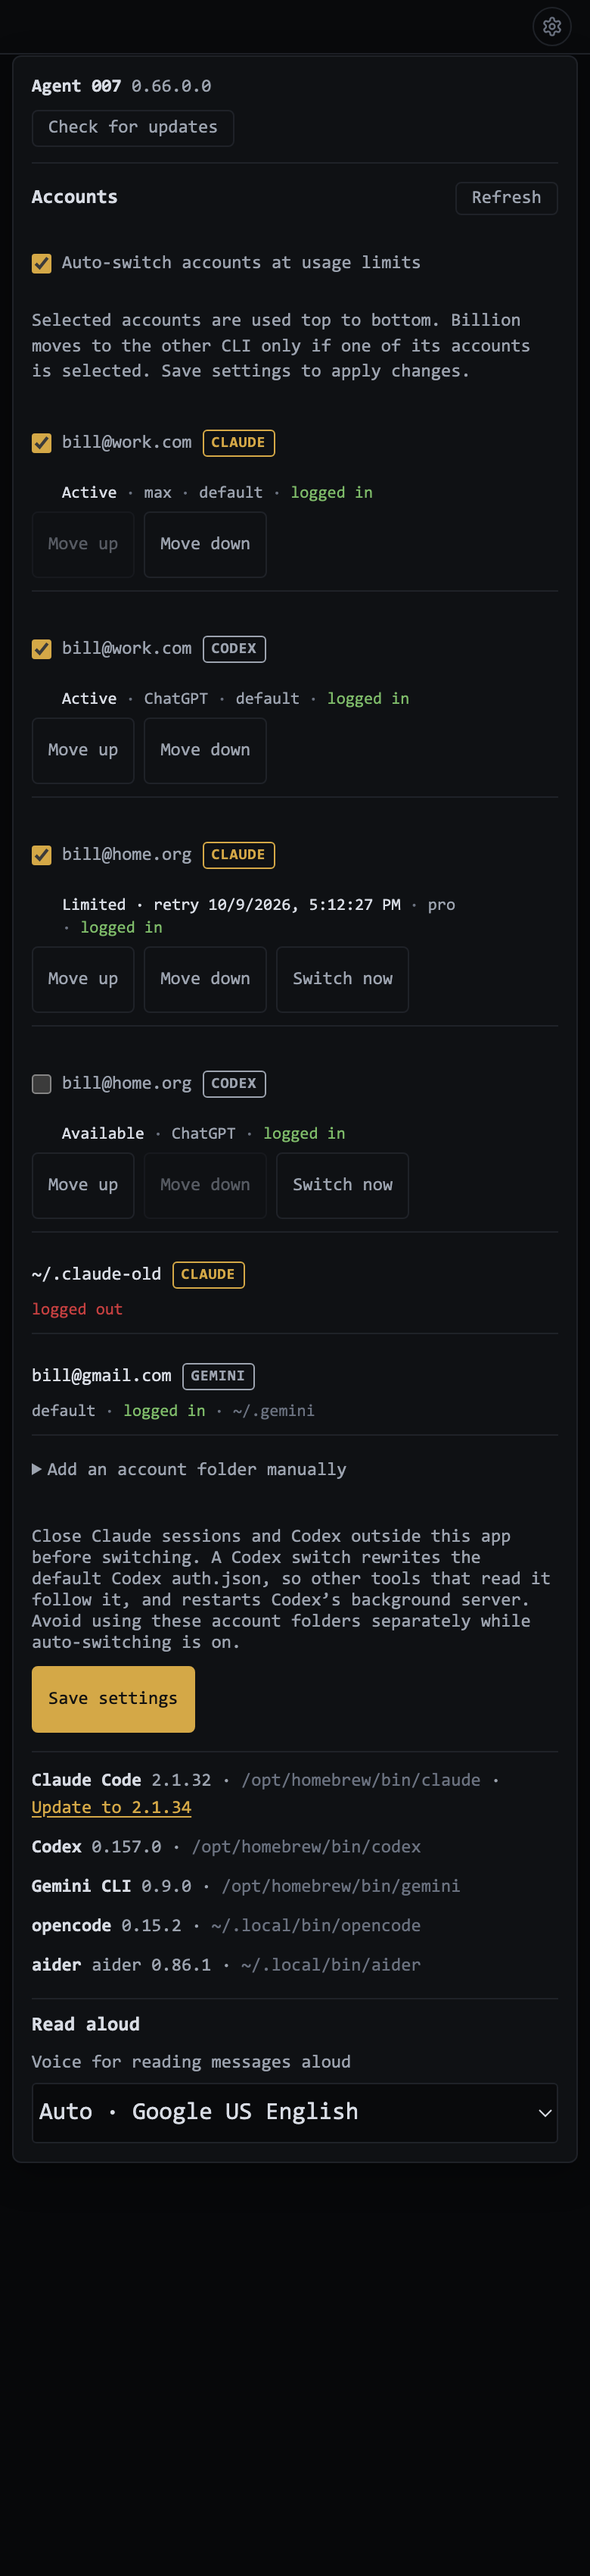
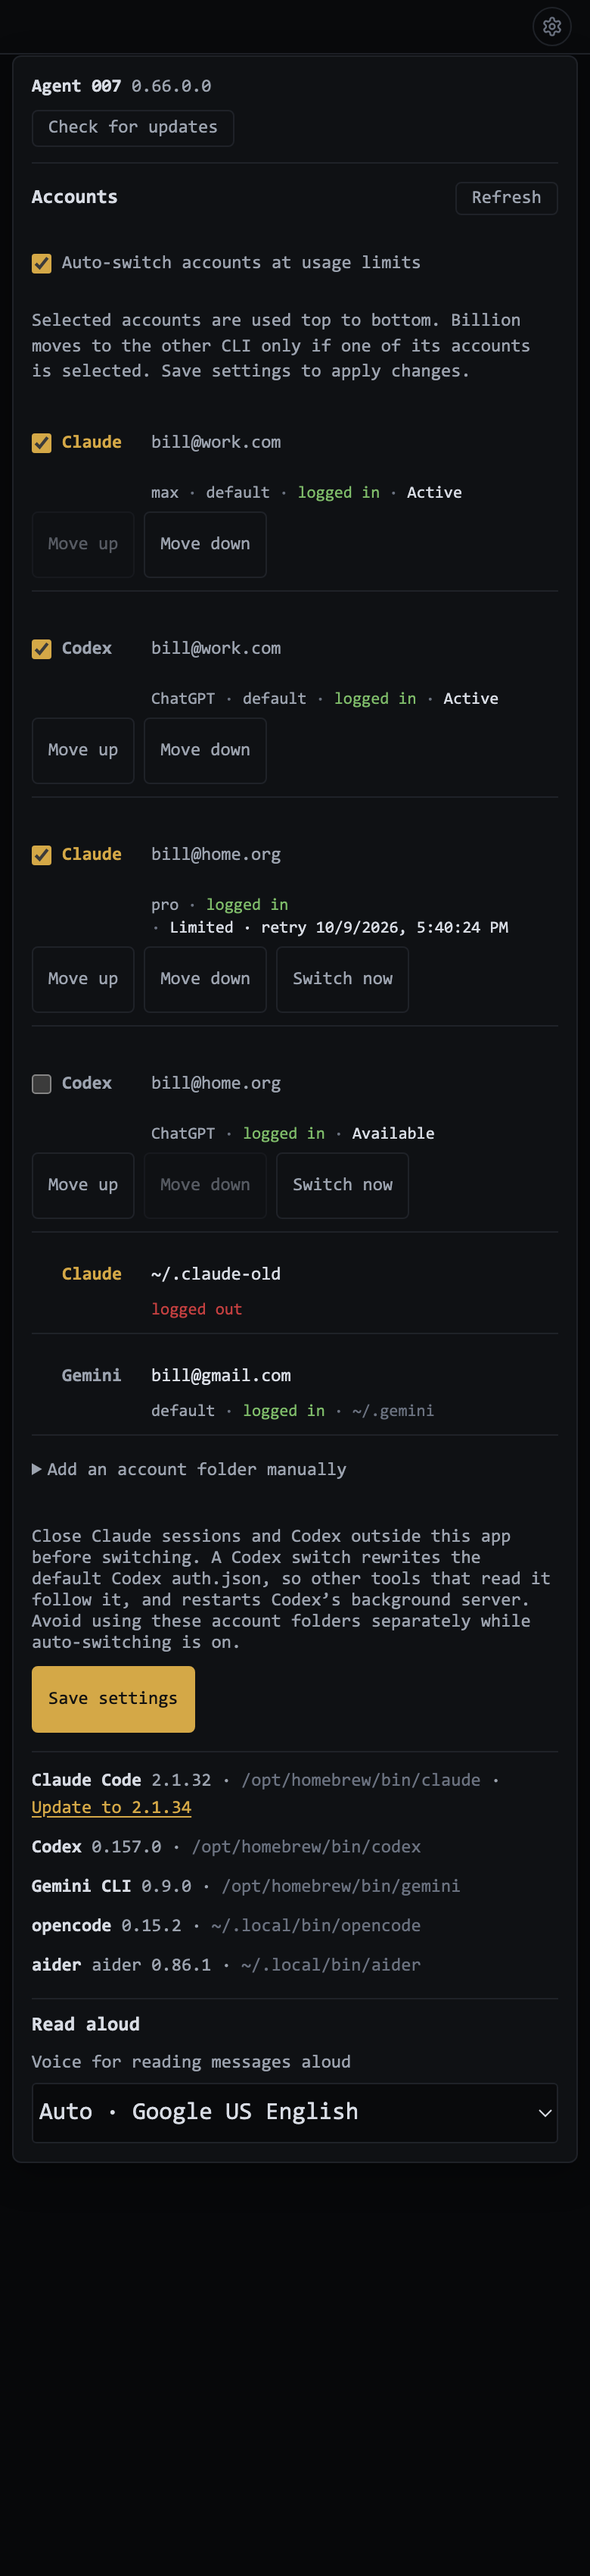
feat: lead each Accounts row with its CLI in a fixed-width column
Billion's design call: rows mix CLIs and often repeat an email, so the CLI
is what tells two rows apart. Checkbox, CLI, email; plan, state, then status.

diff --git a/test/client-account-panel.test.js b/test/client-account-panel.test.js
@@ -159,7 +159,7 @@ describe('account rotation settings', () => {
 
 describe('one list of Claude and Codex accounts', () => {
   const both = (rotation, codexRotation) => handleAccountState({ type: 'account-state', rotation, codexRotation });
-  const emails = () => [...document.querySelectorAll('.rotation-account label span:first-of-type')].map(s => s.textContent);
+  const emails = () => [...document.querySelectorAll('.rotation-account label span:not(.account-cli-tag)')].map(s => s.textContent);
   const tags = () => [...document.querySelectorAll('.account-cli-tag')].map(s => s.textContent);
   const claude = { enabled: true, active: 'a', accounts: [account('a', 'a@x', 'Active'), account('b', 'b@x')] };
   const codexState = { enabled: true, active: 'c', accounts: [account('c', 'c@x', 'Active'), account('d', 'd@x')] };
@@ -263,7 +263,7 @@ describe('one Accounts list: the scan\'s logins with the switch list', () => {
     { cli: 'aider', version: '1', path: '/bin/aider', accounts: [] },
   ];
   const rows = () => [...document.querySelectorAll('.rotation-account')].map(r => ({
-    cli: r.dataset.cli, name: r.querySelector('.account-identity :is(label, .account-name) > span').textContent,
+    cli: r.dataset.cli, name: r.querySelector('.account-identity :is(label, .account-name) > span:not(.account-cli-tag)').textContent,
     box: !!r.querySelector('input'), meta: r.querySelector('.account-meta')?.textContent }));
   // Value: protects=one row per login: folders of one email under one CLI merge, a folder with no email is its own row;
   //   fails_when=the key ignores the CLI or email case, or a merge loses default/plan/logged-in; why_new=the scan's folders became login rows; seam=none
@@ -279,11 +279,13 @@ describe('one Accounts list: the scan\'s logins with the switch list', () => {
     setScan(agents);
     handleAccountState({ type: 'account-state', rotation: { enabled: false, active: 'a', accounts: [account('a', 'a@x', 'Active')] } });
     expect(rows()).toEqual([
-      { cli: 'claude', name: 'a@x', box: true, meta: 'Activemaxdefaultlogged in' },
+      { cli: 'claude', name: 'a@x', box: true, meta: 'maxdefaultlogged inActive' },
       { cli: 'claude', name: '~/.claude-old', box: false, meta: 'logged out' },
       { cli: 'gemini', name: 'g@x', box: false, meta: 'defaultlogged in~/.gemini' },
     ]);
     expect([...document.querySelectorAll('.account-cli-tag')].map(t => t.textContent)).toEqual(['Claude', 'Claude', 'Gemini']);
+    // The CLI leads each row, inside the checkbox label for a switch row.
+    expect(document.querySelector('.rotation-account .rotation-toggle').textContent).toBe('Claudea@x');
     expect(document.querySelectorAll('[data-action="rotation-configure"]')).toHaveLength(1);
   });
   // Value: protects=with user accounts on the logins still show, with no switch controls at all;

diff --git a/public/modules/account.js b/public/modules/account.js
@@ -214,19 +214,18 @@ function renderLogins(body, logins, switching) {
     const tag = document.createElement('span'); tag.className = 'account-cli-tag'; tag.textContent = NAME[cli] || cli;
     const caption = document.createElement('span'); caption.textContent = name;
     if (login) caption.title = login.folder;
-    // The tag is in the checkbox's label: one email can be both a Claude and a Codex login.
+    // The CLI leads the row, inside the checkbox's label: one email can be both a Claude and a Codex login.
     if (a) {
       el.dataset.index = index;
       const wrap = document.createElement('label'), input = document.createElement('input');
       wrap.className = 'rotation-toggle'; input.type = 'checkbox'; input.checked = a.enabled;
-      wrap.append(input, caption, tag); identity.append(wrap);
+      wrap.append(input, tag, caption); identity.append(wrap);
     } else {
       const wrap = document.createElement('span'); wrap.className = 'account-name';
-      wrap.append(caption, tag); identity.append(wrap);
+      wrap.append(tag, caption); identity.append(wrap);
     }
     const meta = document.createElement('div'); meta.className = 'account-meta'; el.append(meta);
     const bit = (text, cls = 'settings-dim') => { const b = document.createElement('span'); b.className = cls; b.textContent = text; meta.append(b); };
-    if (a) bit(a.status + (a.limitedUntil > Date.now() ? ` · retry ${new Date(a.limitedUntil).toLocaleString()}` : ''), 'account-state');
     if (login) {
       if (login.plan) bit(login.plan);
       if (login.org) bit(login.org);
@@ -234,6 +233,7 @@ function renderLogins(body, logins, switching) {
       if (login.loggedIn !== null) bit(login.loggedIn ? 'logged in' : 'logged out', `settings-status ${login.loggedIn ? 'in' : 'out'}`);
       if (login.email && !a) bit(tilde(login.folder, home), 'settings-path');
     }
+    if (a) bit(a.status + (a.limitedUntil > Date.now() ? ` · retry ${new Date(a.limitedUntil).toLocaleString()}` : ''), 'account-state');
     if (!meta.children.length) meta.remove();
     if (a?.error) { const error = document.createElement('span'); error.className = 'account-error'; error.textContent = a.error; el.append(error); }
   };

diff --git a/public/style.css b/public/style.css
@@ -2947,14 +2947,14 @@ select.job-mode-danger {
 .account-identity { display: flex; flex-wrap: wrap; align-items: center; gap: 4px 12px; }
 .account-identity .rotation-toggle { flex: 1 1 180px; margin: 0; }
 .account-identity .settings-dim { font-size: 11px; }
-/* Which CLI an account belongs to: an outlined label after the email, quieter than Save. */
-.account-cli-tag { flex: 0 0 auto; font-size: 10px; font-weight: bold; letter-spacing: 0.5px; text-transform: uppercase; line-height: 1; padding: 3px 5px; border-radius: 3px; color: var(--accent); border: 1px solid currentColor; }
+/* Which CLI a login belongs to: the row's first column, one width for every CLI so the list reads like a table. */
+.account-cli-tag { flex: 0 0 52px; font-weight: bold; color: var(--accent); }
 .rotation-account:not([data-cli="claude"]) .account-cli-tag { color: var(--text-muted); }
-.account-name { display: flex; flex-wrap: wrap; align-items: center; gap: 7px; min-height: 24px; color: var(--text); overflow-wrap: anywhere; }
+.account-name { display: flex; align-items: center; gap: 7px; padding-left: 20px; min-height: 24px; color: var(--text); overflow-wrap: anywhere; }
 .account-meta { display: flex; flex-wrap: wrap; align-items: baseline; gap: 2px 6px; font-size: 11px; }
 .account-meta .account-state { color: var(--text); }
 .account-meta > * + *::before { content: '· '; color: var(--text-dim); }
-.rotation-account[data-index] .account-meta { padding-left: 20px; }
+.account-meta { padding-left: 79px; }
 .account-panel .rotation-toggle { margin: 0; min-height: 36px; }
 .account-panel input[type="checkbox"] { accent-color: var(--accent); }
 .account-panel .account-btn { min-height: 36px; padding: 8px 10px; }
